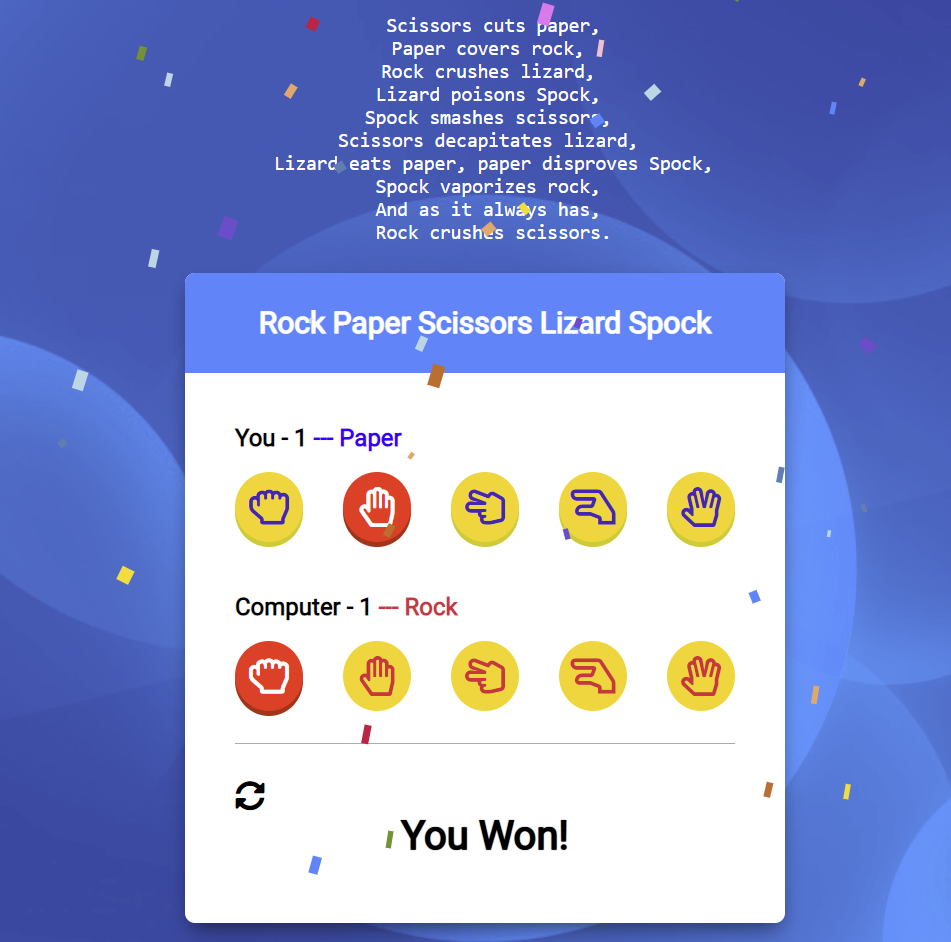
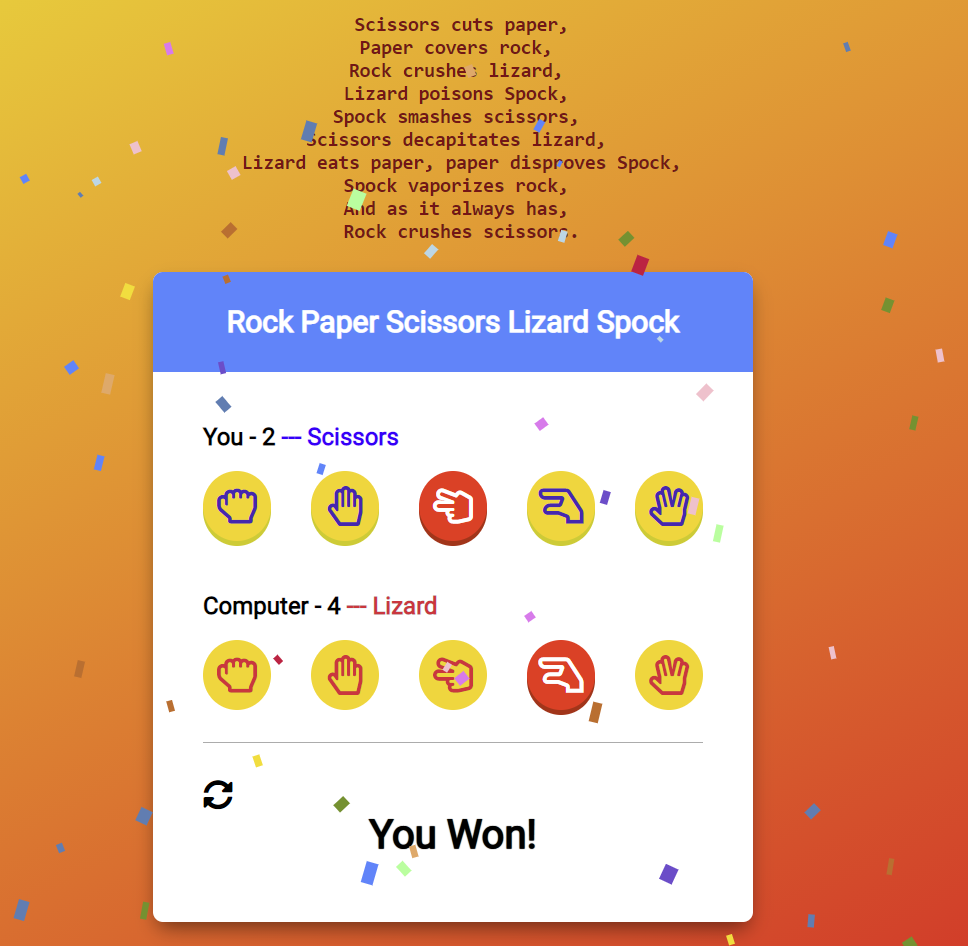
fixed bg

diff --git a/style.css b/style.css
@@ -5,6 +5,7 @@ html {
 }
 
 body {
+  background-image: linear-gradient(to right bottom, #f5dd00, #f20d0d);
   margin: 0;
   min-height: 100vh;
   font-family: 'Roboto', sans-serif;
@@ -12,7 +13,6 @@ body {
   flex-direction: column;
   justify-content: center;
   align-items: center;
-  background: url('3.jpg');
 }
 
 .game-container {
@@ -139,7 +139,8 @@ h2 {
 }
 
 .rules {
-  color: #fff;
+  color: rgb(136, 12, 12);
+  font-weight: 700;
   font-size: 1.5rem;
   text-align: center;
   margin-bottom: 8rem;
